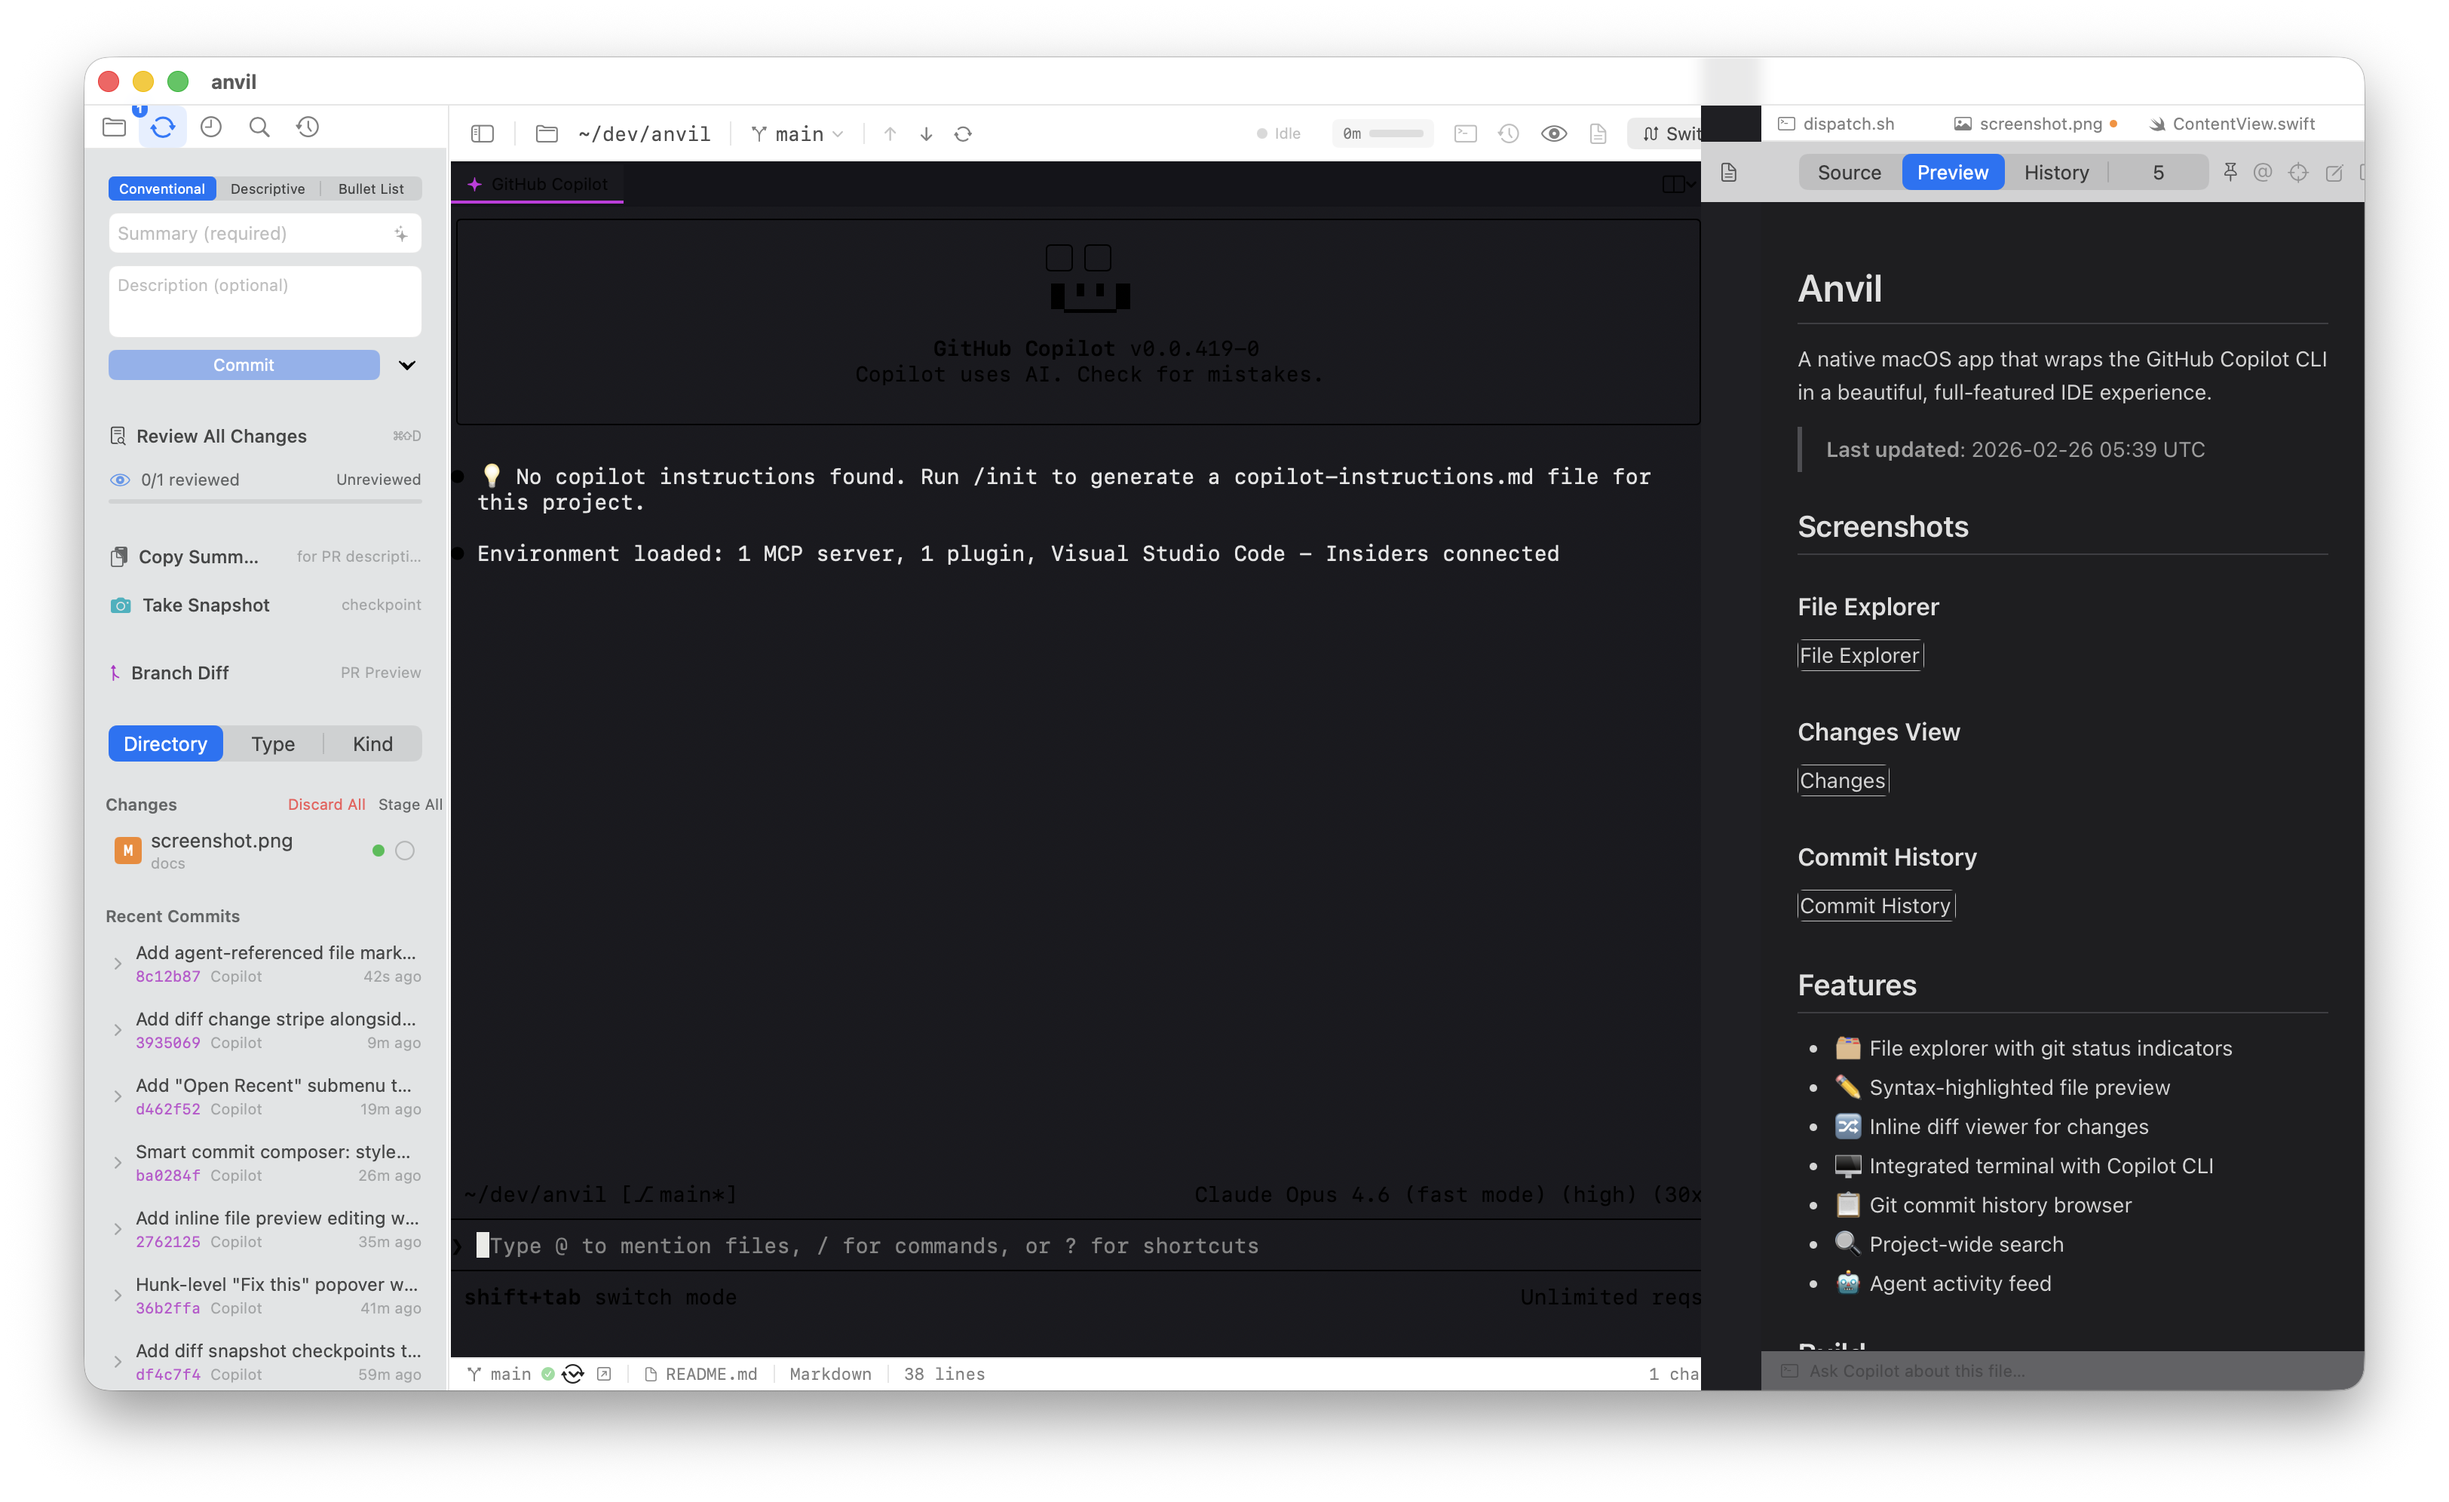
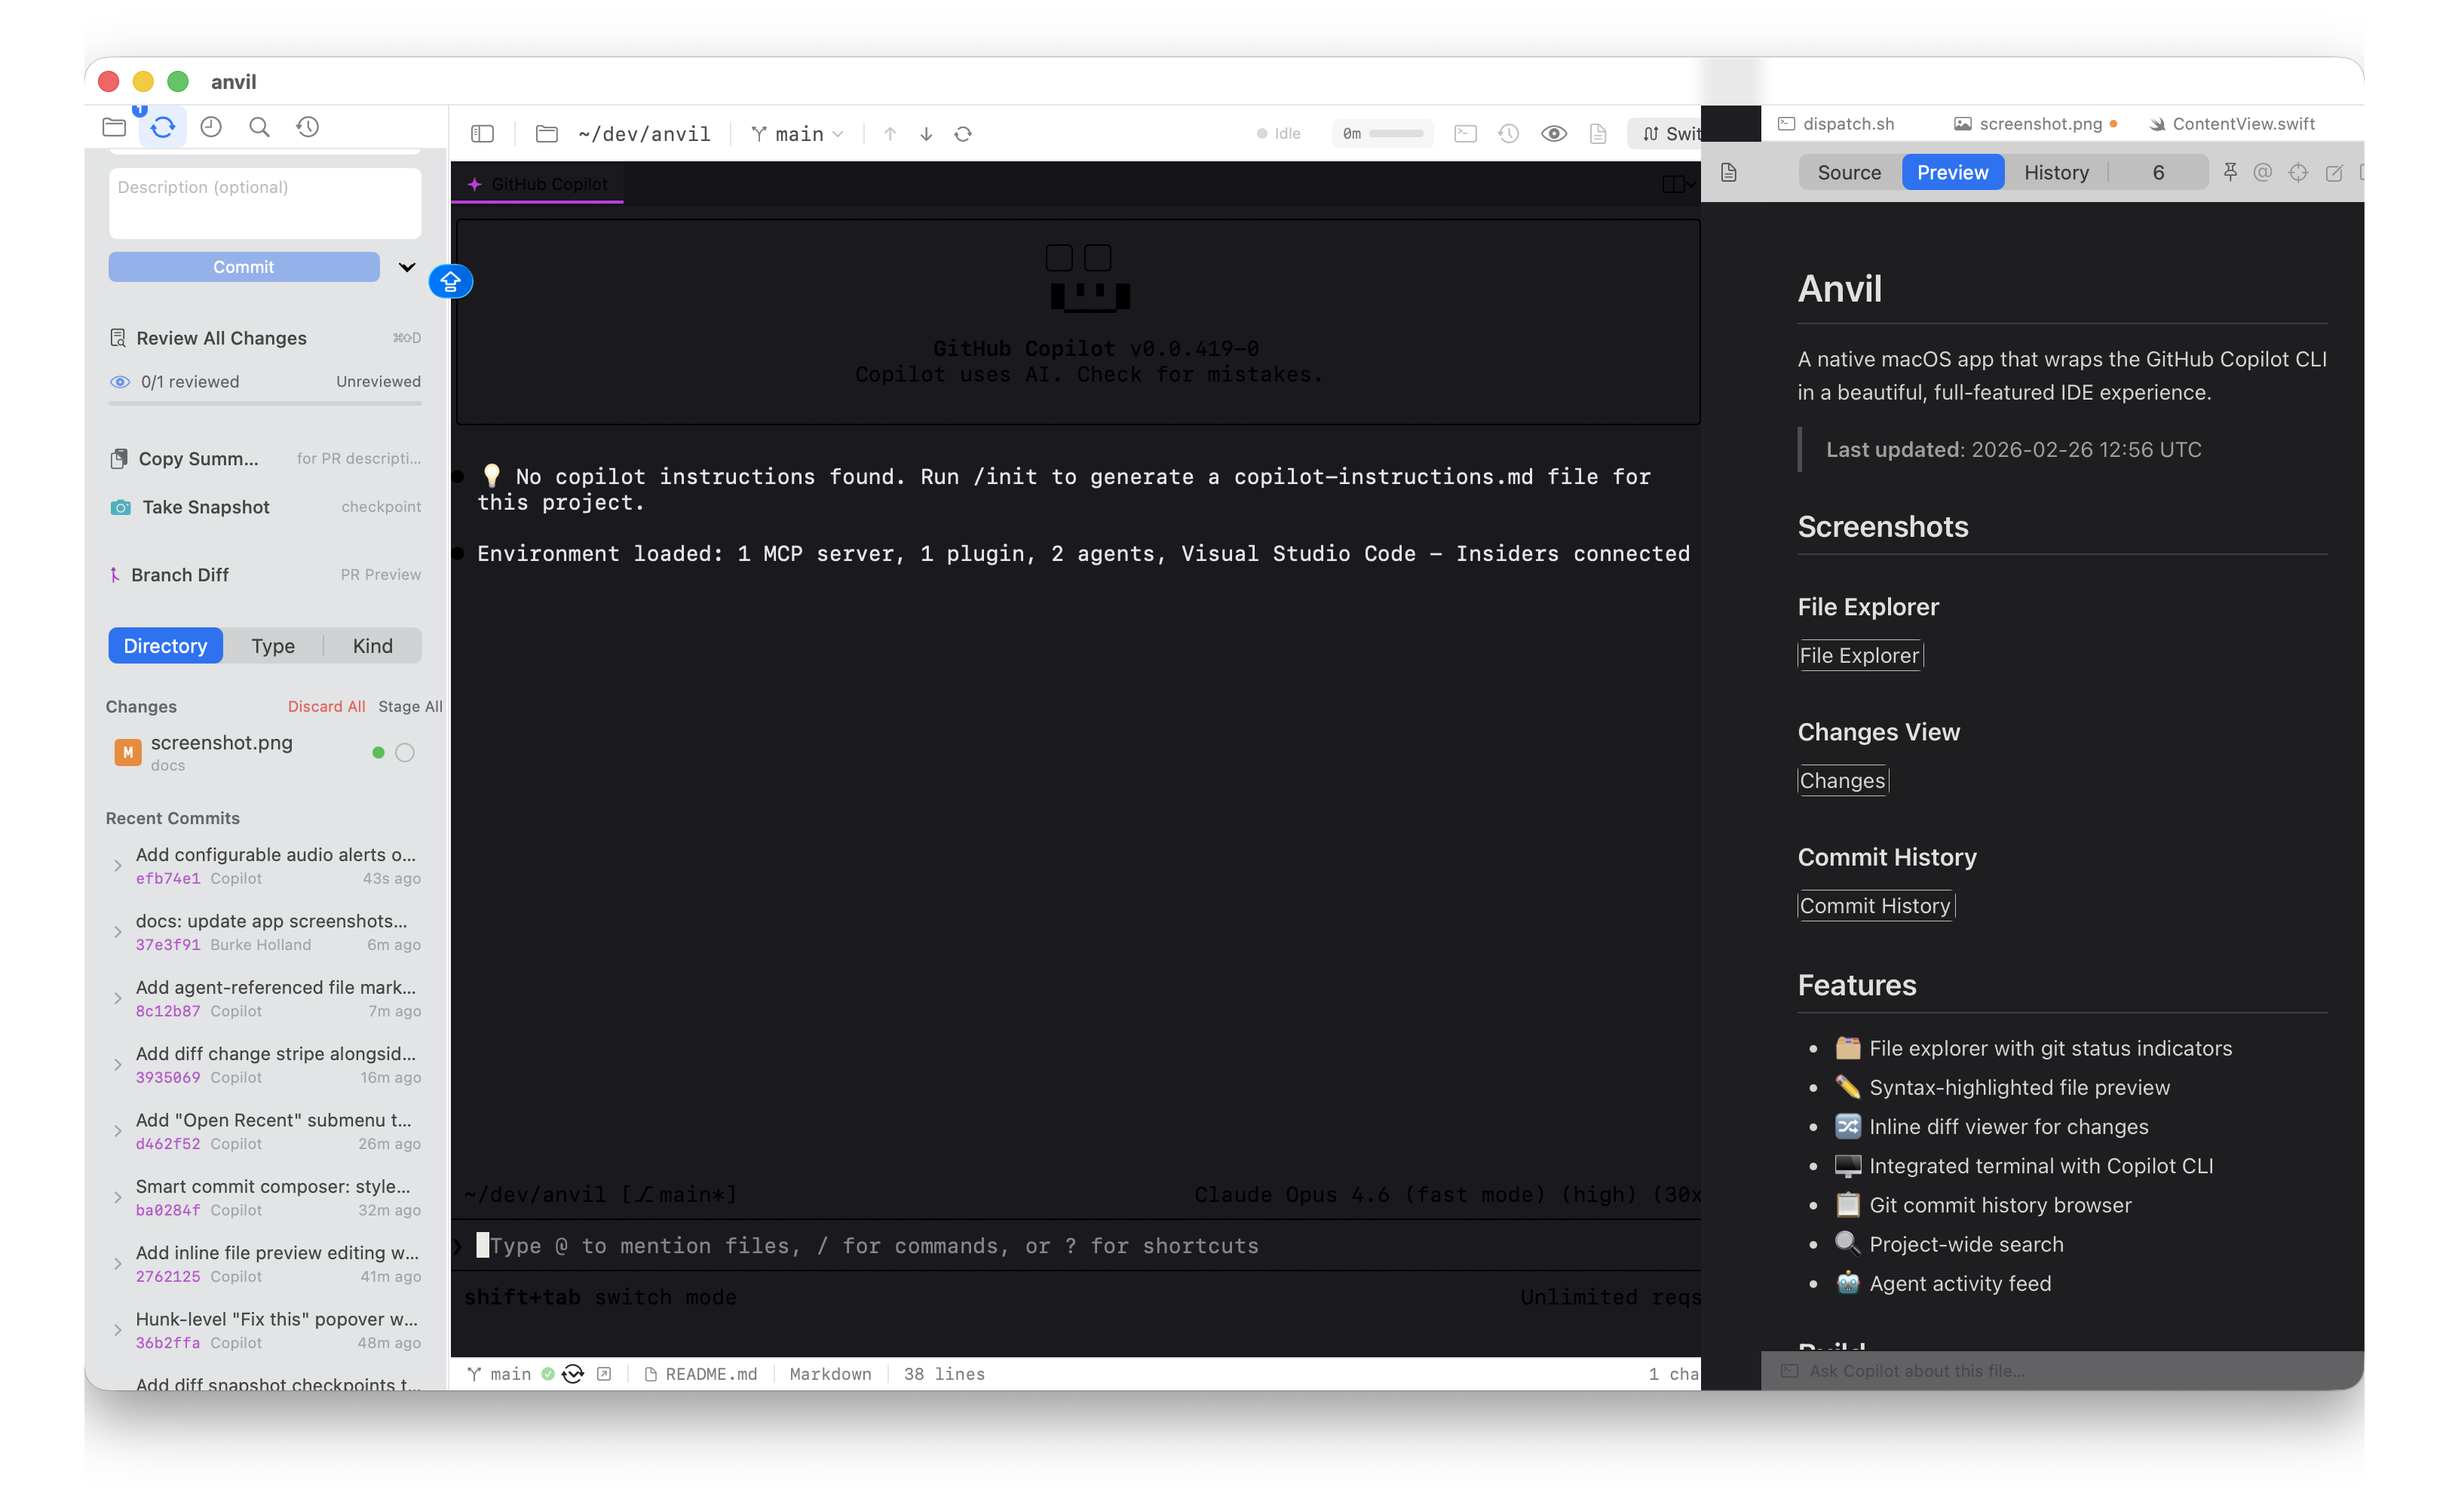
docs: update app screenshots and README (2026-02-26 13:03 UTC)

diff --git a/README.md b/README.md
@@ -2,7 +2,7 @@
 
 A native macOS app that wraps the GitHub Copilot CLI in a beautiful, full-featured IDE experience.
 
-> **Last updated**: 2026-02-26 12:56 UTC
+> **Last updated**: 2026-02-26 13:03 UTC
 
 ## Screenshots
 
